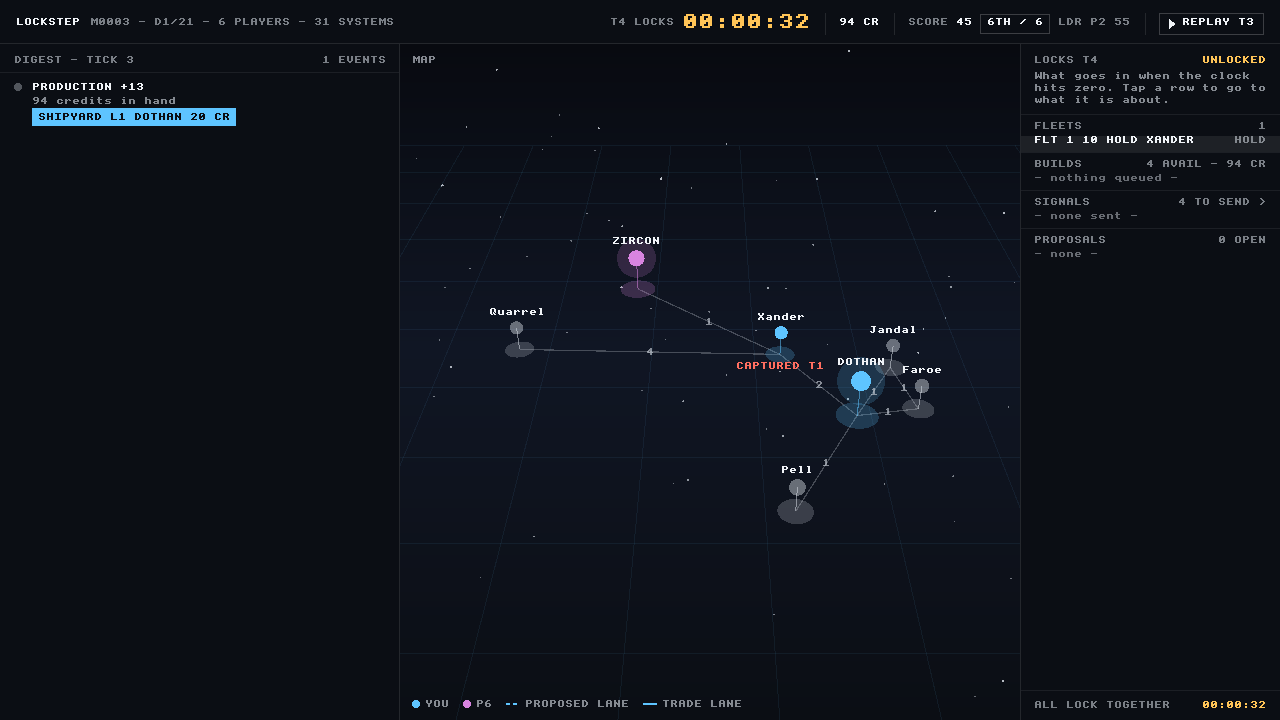
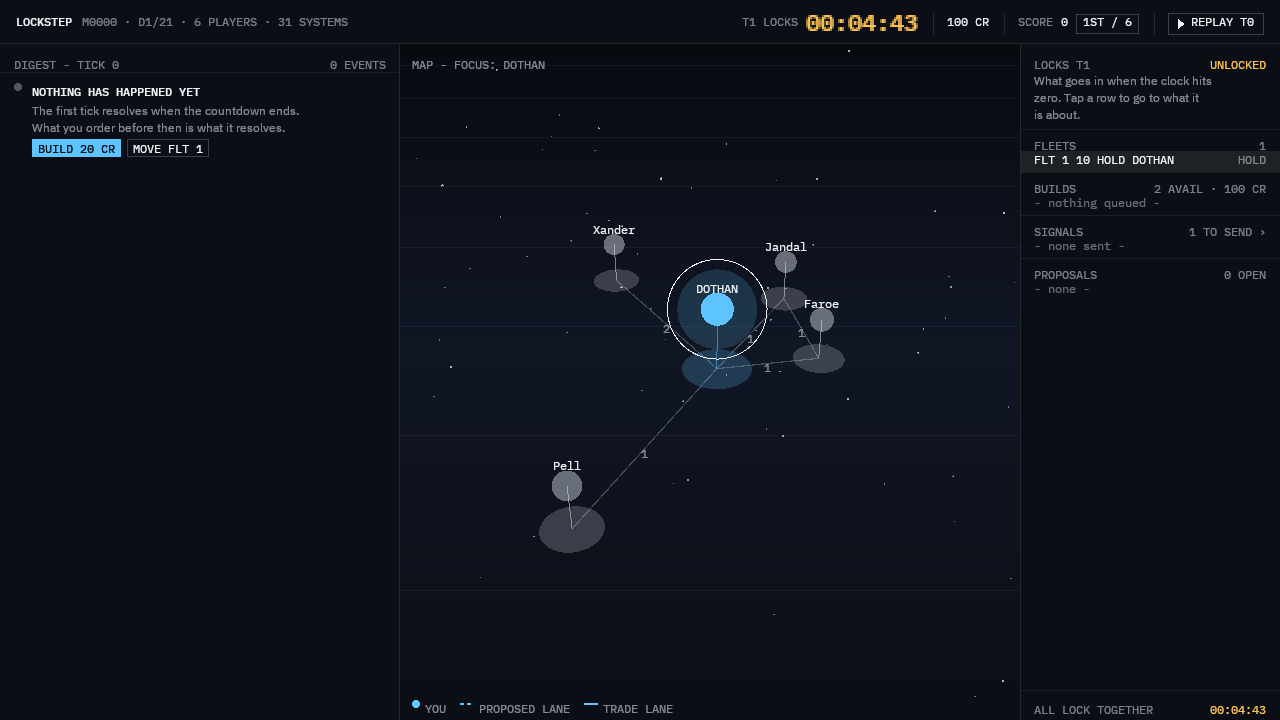
Retake all twenty-three captures on the face that shipped
The desktop was locked for stages 6 and 7, so eighteen of these still
showed the 8x8 font. They are driven now: the lobby by a posted Enter,
everything else by SendInput taps, the at-lock pair by freezing the
server past a lock, the missed-digest banner by freezing the CLIENT for
three ticks, and the finished match by phase zero at two seconds a tick.

**The by-eye check that served earlier retakes does not serve this one.**
Every screen changed, so "which ones look different" answers nothing. The
8x8 font was one bit a pixel, so a capture carrying it has a handful of
distinct luminances and an anti-aliased one has two hundred. Running that
over the directory caught two files I would otherwise have signed off:
05-refused-seat-in-use, which looked retaken in a thumbnail and was not,
and 05-connecting, which had been committed BLANK in stage 6 because the
capture fired before the window drew anything. Neither was visible at
review size. README carries the check.

Two pixel targets in the recipe had gone stale and are re-measured:
PRACTICE MATCH moved from (744,482) to (752,502) when the seat card grew,
and the SIGNALS header from 201 to 232. Better than either, the recipe now
says not to hardcode a rail position at all -- each section opens with a
full-width divider at 7% white, so the third one down is SIGNALS, which
survives a queued build, a second fleet and the next line-height change.
It also records that a system marker and a fleet marker are the same blue
[…]

diff --git a/Design/UI/README.md b/Design/UI/README.md
@@ -7,17 +7,17 @@ deliberately not, and this directory is now the **design record for the client**
 code in `LockstepClient/` and `Lockstep/`. Every status below is as of **2026-09-13** and was read
 from the tree, not from the plan.
 
-> **`screens/` is PART RETAKEN as of 2026-09-13, and the split is not arbitrary.** FONT-01 stages 5
-> and 6 are done — Plex Sans is assigned, the layout is re-derived, coverage is gamma-corrected — so
-> these five are current and show what the client actually draws:
-> `01-main-page`, `03-join`, `04-connection-lost`, `05-connecting`, `05-refused-unknown-token`.
+> **All twenty-three captures are current as of 2026-09-13**, retaken from the Debug build carrying
+> every stage of FONT-01: IBM Plex in four cuts, the data/sentence rule applied, the layout
+> re-derived around a 17px line, coverage gamma-corrected, and the five characters ADR-014 had to
+> substitute put back.
 >
-> **The other eighteen still show the 8×8 bitmap font.** Every one of them needs the client driven to
-> a state — a sheet opened, a row hovered, a replay stepped — and the client takes input through the
-> Windows Pointer API, so only a real `SendInput` tap on an **unlocked desktop** reaches it
-> (`Build/TapRehearsal.ps1` says why). The desktop was locked when stage 6 ran. Retaking them needs a
-> session at the machine, not more code. Until then, read those eighteen for layout and content, not
-> for typography.
+> **The check is mechanical rather than visual.** The 8×8 font was one bit a pixel, so a capture
+> carrying it has a handful of distinct luminances in it; an anti-aliased one has two hundred. Run
+> that over the directory and a stale file cannot hide: it is what caught `05-refused-seat-in-use`,
+> which looked retaken in a thumbnail and was not, and `05-connecting`, which had been committed
+> **blank** because the capture fired before the window had drawn anything. Neither was visible by
+> eye at review size.
 
 ## Contents
 - `SCREENS.md` — per screen: what is built, what the design asked for that is not, and where the code is.
@@ -34,7 +34,7 @@ ADR-034 (what the handoff left open) and ADR-036 through ADR-071, which are cite
 
 | # | Screen | Status | In `screens/` | Code |
 |---|---|---|---|---|
-| 01 | Main page — digest as order surface, map, locks rail | **Built** (ADR-034; then 045, 052, 053, 055–066) | `01-main-page.png` (tick 2 of a practice match: a contact, a claim with its priced build, production), `01-orders-queued.png` (tick 0: a move ordered and a build queued, before the lock), `01-fleet-under-way.png` (tick 1: the route and its marker), `01-rail-hover.png` (the locks rail with the pointer on a row, ADR-060), the sheets `01-build-sheet.png`, `01-destination-sheet.png`, `01-signal-sheet.png` and `01-signal-sheet-armed.png` (the concede armed under its band, ADR-064), `01-build-rising.png` (a build in flight, one frame carrying all three places it is said: the rail's row, the sheet that will not take another order, and the digest's card, ADR-070), and `01-finished.png`. The map's unbuilt details are item 6 below | `LockstepClient/MainPage.cpp`, `DigestView.cpp`, `MapRender.cpp` |
+| 01 | Main page — digest as order surface, map, locks rail | **Built** (ADR-034; then 045, 052, 053, 055–066) | `01-main-page.png` (tick 11 of a six-seat match: a battle, two grouped rivals, production with its priced build, a rising build, a claim — and a paged rail), `01-orders-queued.png` (tick 0: a move ordered and a build queued, before the lock), `01-fleet-under-way.png` (tick 1: the route and its marker), `01-rail-hover.png` (the locks rail with the pointer on a row, ADR-060), the sheets `01-build-sheet.png`, `01-destination-sheet.png`, `01-signal-sheet.png` and `01-signal-sheet-armed.png` (the concede armed under its band, ADR-064), `01-build-rising.png` (a build in flight, one frame carrying all three places it is said: the rail's row, the sheet that will not take another order, and the digest's card, ADR-070), and `01-finished.png`. The map's unbuilt details are item 6 below | `LockstepClient/MainPage.cpp`, `DigestView.cpp`, `MapRender.cpp` |
 | 02 | Share tick — 480×640 export | **Not built.** No button, no export; ADR-034 §2 says clipboard-only if it is ever built, and its open question asks whether it should be | none; the mockup that was the target, if it stays one, is in the design file and the history | — |
 | 03 | Join | **Built** (ADR-034 §3, ADR-041) | `03-join.png` | `LockstepClient/JoinPage.cpp`, `NeuronClient/TextField.h` |
 | 04 | Connection lost | **Built** (ADR-038, ADR-043) | `04-connection-lost.png` | `LockstepClient/ConnectionDialog.cpp` |
@@ -121,14 +121,16 @@ starts with twenty credits and that missed digests are one tick deep; none was t
 it was corrected on 2026-09-12. (Rail rows became links later the same day — ADR-060 — so that first
 claim is true again, of a different mechanism: a row links to the thing it names, not to an event.)
 
-**Every capture is current as of 2026-09-13.** The five ADR-069 and ADR-070 had left stale were
-retaken that day from the Debug build at 9b25816, on an unlocked desktop, along with every other
-state those changes reach: eighteen retaken, sixteen of them different, and `01-build-rising.png`
-staged for the first time. The two that came back byte for byte what they were are
-`06-at-lock.png` and `05-waiting-for-the-host.png` — a locked tick-zero rail and a joiner with no
-board yet, which neither change reaches — and that is the check. `03-join.png`,
-`05-connecting.png` and the two refusals were left alone: nothing has touched `JoinPage` or
-`ConnectionDialog` since they were taken.
+**Every capture was retaken on 2026-09-13 for FONT-01**, from the Debug build carrying all seven
+stages. All twenty-three are different, because the face changed on every screen — which is also why
+the by-eye check that served the ADR-069 and ADR-070 retakes does not serve this one, and the
+luminance-count check above replaced it.
+
+`01-main-page.png` is **no longer a practice match**. The recipe asked for one and a practice match
+at these seeds now yields a digest of one or two events, which documents the screen's typography
+poorly; it is a `--serve` match eleven ticks in instead, with thirty-five events, a paged rail and
+ten fleets. The practice match is still what the sheet captures are taken from, because it is the
+quickest way to a tick-zero board with a `MOVE FLT n` card on it.
 
 ## Photographing the build
 
@@ -147,8 +149,19 @@ ADR-066 touched was retaken the same day from the Debug build carrying them. Don
   fails with error 1002). A posted `WM_KEYDOWN` *does* land, locked or not: Enter is JOIN on
   screen 03 and ENTER MATCH on 09. `Get-Process LogonUI` says whether the desktop is locked; if it
   is, the window will report itself foreground and no tap will happen.
-- Client-pixel targets: JOIN (826, 479); PRACTICE MATCH (744, 482); `REPLAY T<n>` (1210, 24); a
-  sheet's `CANCEL` bar (700, 688); the `SIGNALS` header on a fresh rail (1150, 201). The filled
+- Client-pixel targets, **re-measured 2026-09-13 after FONT-01 stage 6 moved two of them**: JOIN
+  (826, 479); **PRACTICE MATCH (752, 502)**, which was (744, 482) until a seat card grew from 120px
+  to 130 and pushed the box below it down; `REPLAY T<n>` (1210, 24); a sheet's `CANCEL` bar
+  (700, 688); the `SIGNALS` header on a fresh rail (1150, 232), which was 201.
+- **Do not hardcode a rail position at all — scan for the section dividers.** Each section of the
+  locks rail opens with a full-width 1px divider at 7% white, so the third of them down the rail is
+  where `SIGNALS` starts and the band is the 22px under it. That is immune to a queued build, a
+  second fleet, or the next change to the line height, all of which have broken a literal.
+- **A system marker and a fleet marker are the same blue and differ only in size.** Both are exactly
+  `94,196,255`; scanning the map pane for runs of it gives system discs at 13–18px wide and a fleet
+  at about 9. Tapping a system opens its build sheet, tapping a fleet opens the destination picker,
+  and a parked fleet has no marker at all — so the picker is reachable only while something is under
+  way, or from `MOVE FLT n` on a tick-zero card. The filled
   build button moves with the digest — scan column x=40 for solid blue, as `TapBuild` does. **The
   `SIGNALS` header moves too**: it sits under BUILDS, so a queued build or a second fleet pushes it
   down 16 pixels a line, and 201 is only right on an opening rail. Since ADR-069 put the level in

diff --git a/Design/Plans/FONT-01-PlexFaces.md b/Design/Plans/FONT-01-PlexFaces.md
@@ -89,15 +89,19 @@ had ever been looked at on screen.
 
 ## Where to pick this up
 
-**Branch `font/plex-faces`, seventeen commits, tree clean, all three checkers green, 517 tests
-passing. Every stage is built.** What is left is not code:
+**Branch `font/plex-faces`, nineteen commits, tree clean, all three checkers green, 517 tests
+passing. Every stage is built and all twenty-three captures are retaken.** What is left is not code:
 
-1. **Eighteen of the twenty-three captures in `Design/UI/screens` still show the 8×8 font.** Each
-   needs the client driven to a state — a sheet opened, a row hovered, a replay stepped — and the
-   client takes input through the Windows Pointer API, so only a real `SendInput` tap on an
-   **unlocked desktop** reaches it. The desktop was locked for all of stages 6 and 7. The five
-   reachable without a tap are current and `Design/UI/README.md` names them.
-2. **Where the OFL notice lives.** Four cuts of a licensed typeface in a shipped binary is
+**Photographing the screens found the one defect stage 6 had missed**, and it could not have been
+found any other way: the lobby needs a keypress to reach, the desktop was locked, so a seat card
+kept the collision every other screen had had fixed. Every test passed either way — what the tests
+assert about that page is that its buttons work when pressed, and they did. Two things were drawn in
+the same place. `Design/UI/README.md` carries the mechanical check that now stands in for the eye: a
+capture of the 8×8 font has a handful of distinct luminances and an anti-aliased one has two
+hundred, which caught a file that looked retaken and was not, and another that had been committed
+blank.
+
+1. **Where the OFL notice lives.** Four cuts of a licensed typeface in a shipped binary is
    distribution, and R13 leaves nowhere beside the executable to put a licence file. Owner decision;
    it blocks shipping rather than building.
 3. **Whether the screen keeps shouting its labels.** ADR-074 left it open and stage 6 did not answer

diff --git a/Design/UI/SCREENS.md b/Design/UI/SCREENS.md
@@ -8,7 +8,7 @@ are no longer in the tree (`README.md` says where they went). Numbers 01–08 ar
 was added by ADR-036 and sits between 03 and 01 in the flow (`README.md` draws it). "Not built" is
 stated as such, and nothing below is in the present tense unless the tree does it.
 
-## 01 · Main page — **built** (`01-main-page.png` is the capture, tick 2 of a practice match)
+## 01 · Main page — **built** (`01-main-page.png` is the capture, tick 11 of a six-seat match)
 
 **Top bar (44px, `MainPage::DrawTopBar`).** `LOCKSTEP` · `M0007 · D2/21 · 6 PLAYERS · 26 SYSTEMS`
 · spacer · `T8 LOCKS` + the countdown at 2× in amber · `26 CR` · `SCORE 1,284` + chip `4TH / 6` ·
